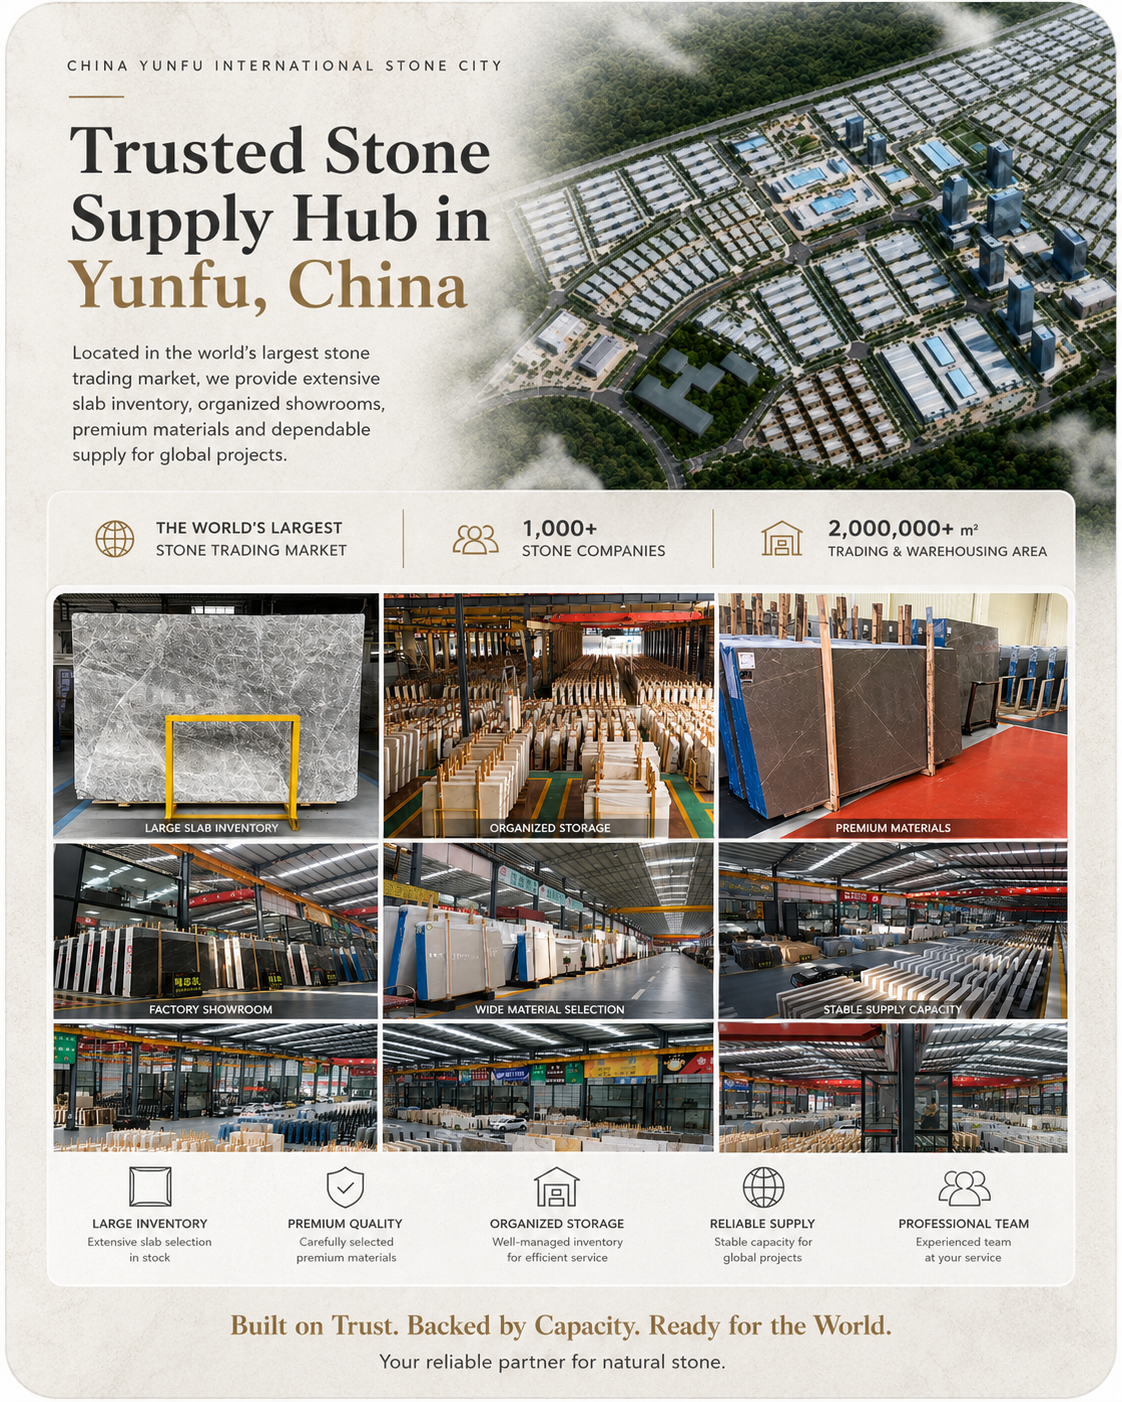
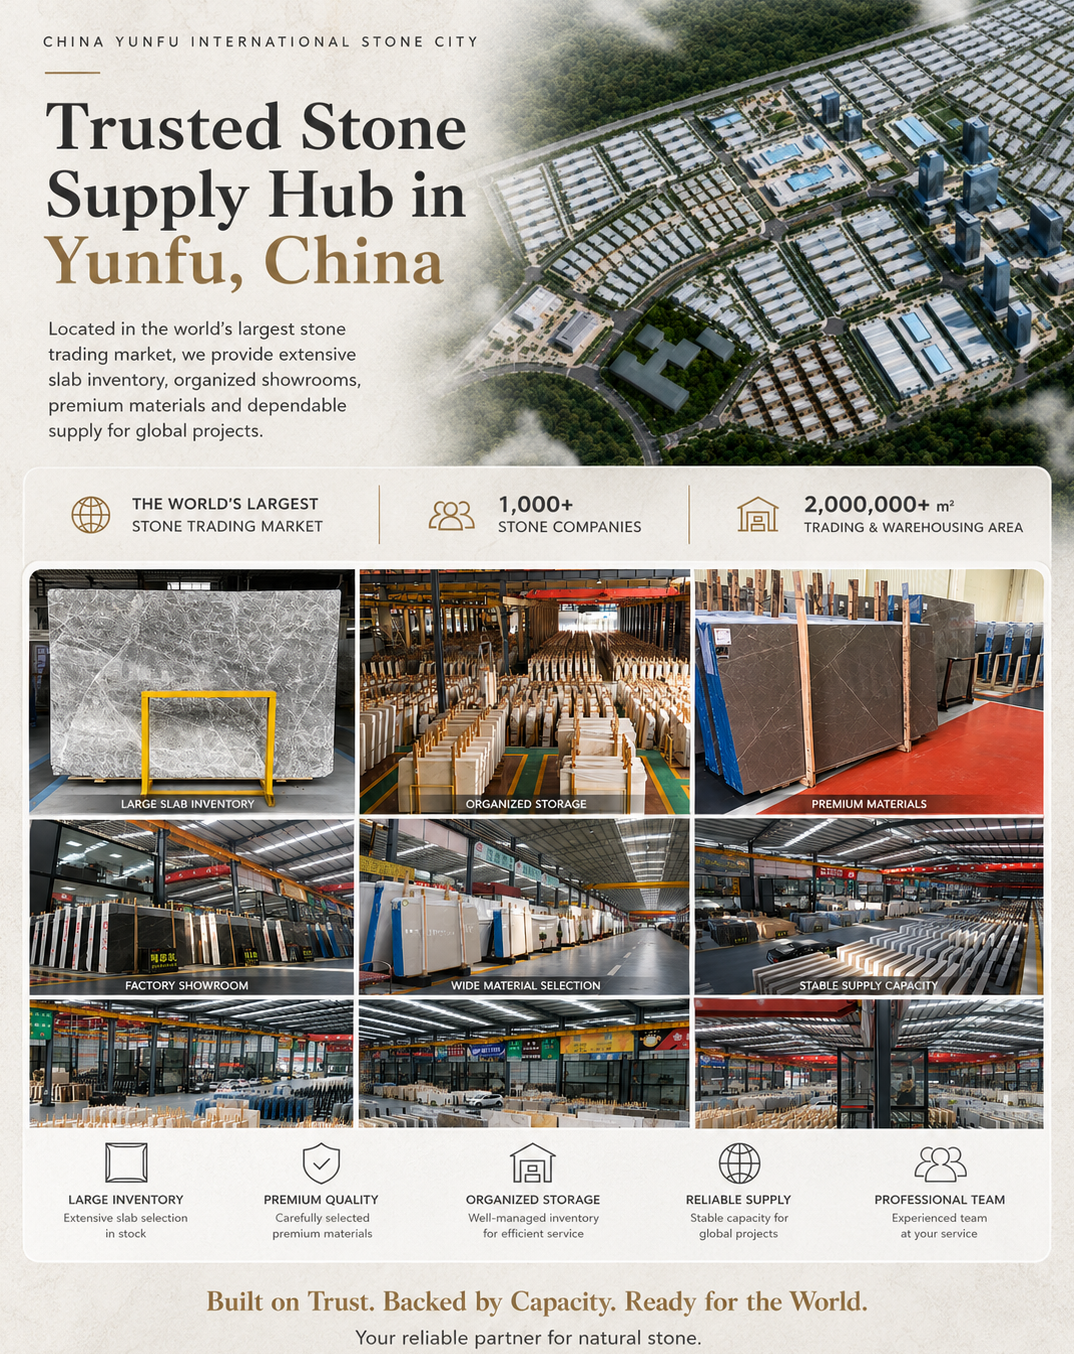
Remove hero image border

diff --git a/app/globals.css b/app/globals.css
@@ -860,12 +860,17 @@ video {
     display: flex;
     align-items: center;
     justify-content: center;
-    padding: 1rem;
+    padding: 0;
     aspect-ratio: auto;
     min-height: clamp(24rem, 34vw, 44rem);
-    background:
-      center / contain no-repeat url("/assets/why-choose-us/why-choose-us.png"),
-      #f3ede4;
+    background: #f3ede4;
+  }
+
+  .why-choose-us__media > img {
+    width: 100%;
+    height: 100%;
+    object-fit: cover !important;
+    object-position: center center;
   }
 
   .why-choose-us__title {

diff --git a/app/page.tsx b/app/page.tsx
@@ -178,7 +178,7 @@ export default function HomePage() {
             <div className="grid gap-8 lg:grid-cols-[1.08fr_0.92fr] lg:items-start">
               <div className="card-luxury why-choose-us__media overflow-hidden bg-[#f3ede4] p-0">
                 <img
-                  className="block h-full w-full object-contain object-center"
+                  className="block h-full w-full object-cover object-center"
                   src="/assets/why-choose-us/why-choose-us.png"
                   alt="Trusted stone supply hub overview with factory, warehouse, and material capacity details"
                   loading="lazy"